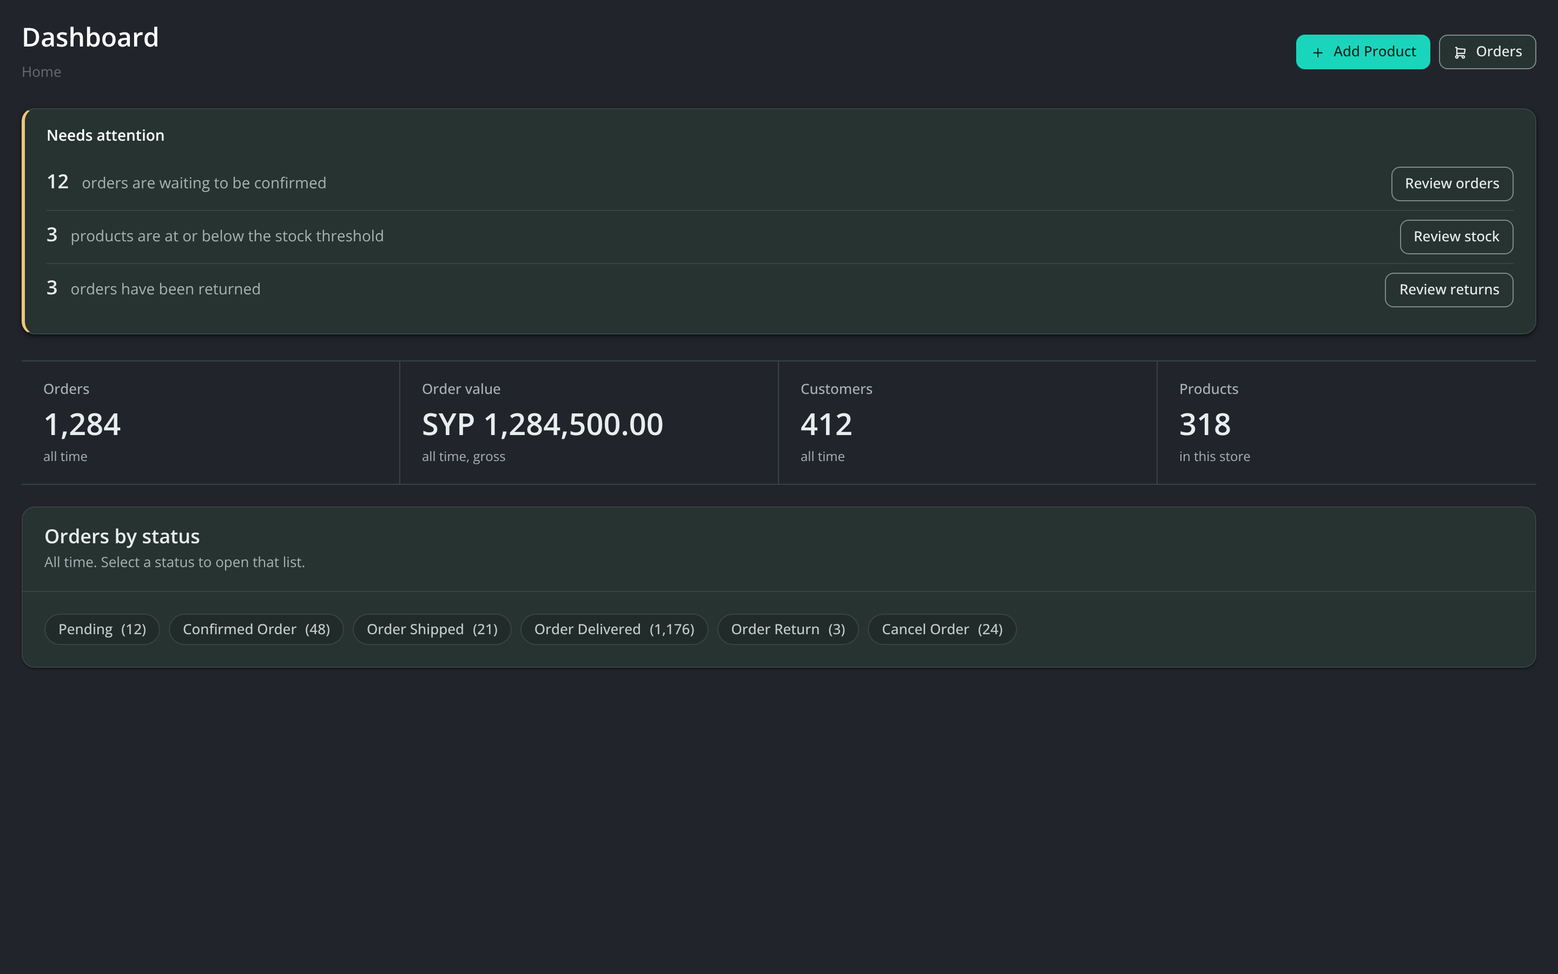
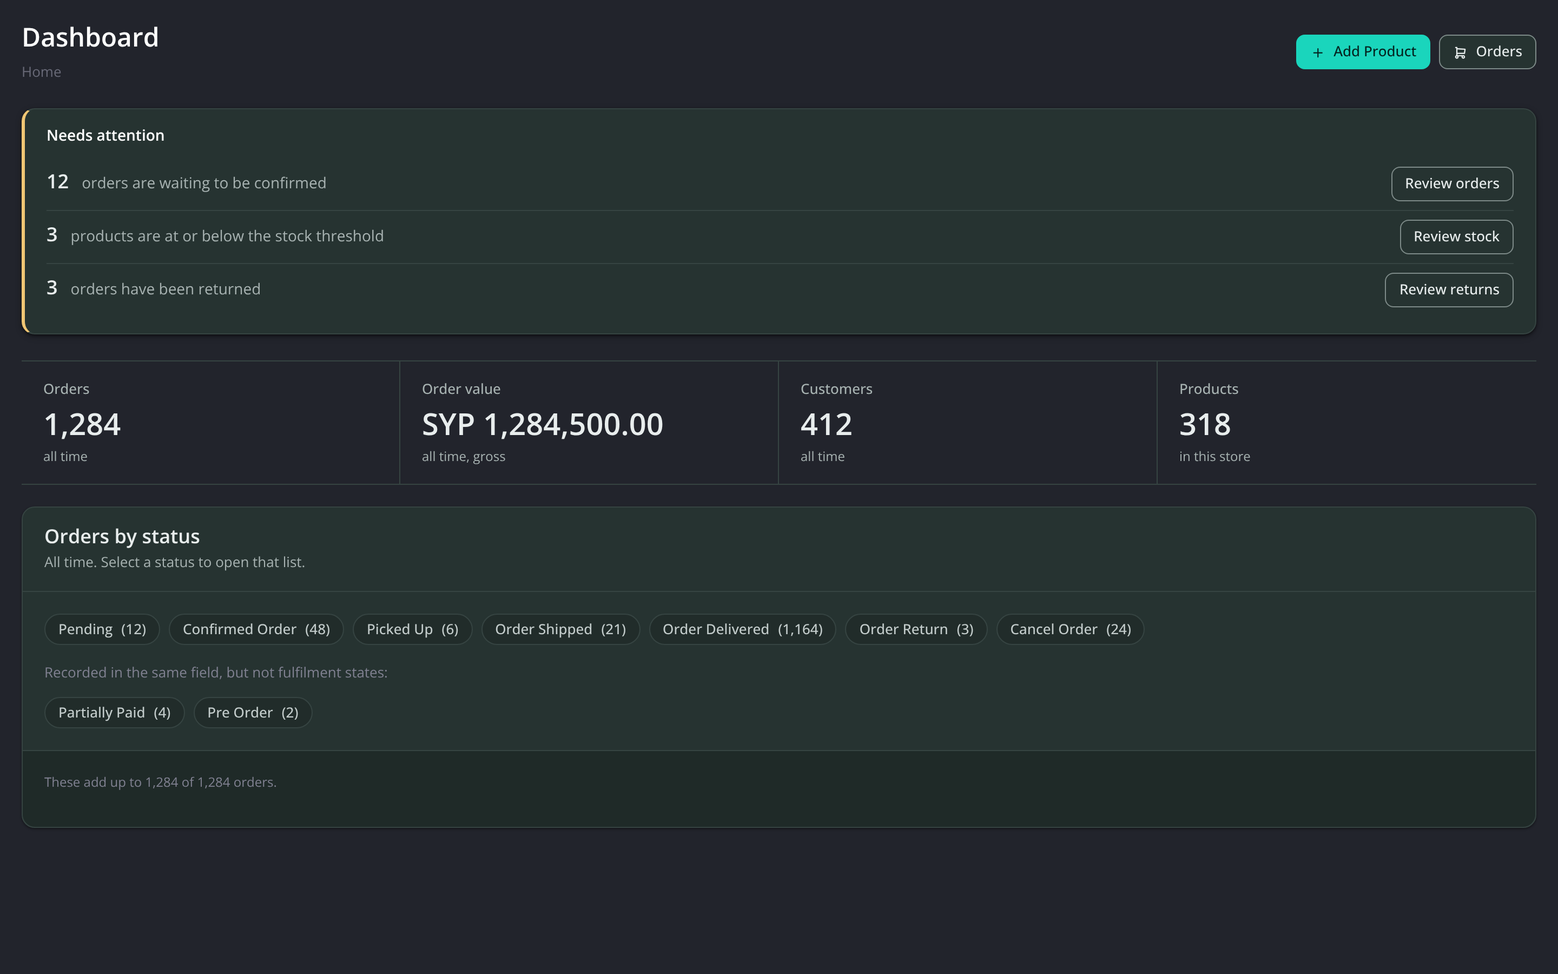
fix(P2-04): the order-status breakdown now partitions the total, and names what is not a fulfilment state
`orders.delivered_status` is ONE integer column carrying NINE values, and two
of them are not fulfilment states at all:

  0 Pending   1 Delivered   2 Cancel   3 Return   4 Confirmed
  5 Picked Up                6 Shipped
  7 PARTIALLY PAID  -- a payment state
  8 PRE ORDER       -- an order type

The column's own migration comment still reads
`0=>pending/1=>diliver/2=>cancel/3=>return` and has been stale for a long time;
all nine are live in app/ and resources/.

`HomeController::getOrderCounts()` counted SIX of them -- 0, 1, 2, 3, 4 and 6
-- leaving picked-up, partially-paid and pre-order in no bucket at all. So the
dashboard showed six counts beside a total they could not add up to, with
nothing on screen to say anything was missing. That was true of the breakdown
P2-02 shipped two commits ago, so this fixes my own work as much as the
original.

Measured, by reverting to that behaviour against a fixture that uses all nine:

  breakdown=1272  total=1284     -- twelve orders invisible

WHAT THE SCREEN DOES NOW

All nine statuses are shown, plus an `other` catch-all for any value outside
0-8, and the card footer states the sum in words so a merchant can watch it
reconcile: "These add up to 1,284 of 1,284 orders."

The two that are not fulfilment states are listed under their own heading --
"Recorded in the same field, but not fulfilment states" -- rather than sitting
silently among the rest. That is the honest presentation available without a
[…]

diff --git a/app/Http/Controllers/HomeController.php b/app/Http/Controllers/HomeController.php
@@ -289,6 +289,12 @@ class HomeController extends Controller
         $return_order = $orderCounts['return'];
         $confirmed_order = $orderCounts['complete'];
         $shipped_order = $orderCounts['shipped'];
+        // P2-04: the three statuses that were counted by nothing, plus the
+        // catch-all, so the dashboard's breakdown reconciles with its total.
+        $picked_up_order = $orderCounts['picked_up'];
+        $partially_paid_order = $orderCounts['partially_paid'];
+        $pre_order_order = $orderCounts['pre_order'];
+        $other_status_order = $orderCounts['other'];
         $new_orders = $orderQuery->orderBy('id', 'DESC')->limit(4)->get();
         $chartData = $this->getOrderChart(['duration' => 'week']);
 
@@ -340,34 +346,84 @@ class HomeController extends Controller
             'customerPer',
             'productPer',
             'shippedOrderPer',
-            'shipped_order'
+            'shipped_order',
+            'picked_up_order',
+            'partially_paid_order',
+            'pre_order_order',
+            'other_status_order'
         );
         return $data;
     }
 
+    /**
+     * The nine values `orders.delivered_status` really takes, by the name the
+     * order list already shows for each one (OrderDataTable::dataTable()).
+     *
+     * The column's own migration comment says `0=>pending/1=>diliver/2=>cancel
+     * /3=>return` and has been stale for a long time: 4, 5, 6, 7 and 8 are all
+     * live in app/ and resources/.
+     *
+     * Two of these are NOT fulfilment states and are worth naming as such,
+     * because they are the reason a "status" column cannot be read as one
+     * thing: 7 is PARTIALLY PAID, which is a payment state, and 8 is PRE
+     * ORDER, which is an order type. They sit in the same integer column as
+     * "shipped", so an order can be exactly one of the nine and the set does
+     * partition -- but what it partitions by is not a single concept.
+     */
+    public const ORDER_STATUS_PENDING        = 0;
+    public const ORDER_STATUS_DELIVERED      = 1;
+    public const ORDER_STATUS_CANCEL         = 2;
+    public const ORDER_STATUS_RETURN         = 3;
+    public const ORDER_STATUS_CONFIRMED      = 4;
+    public const ORDER_STATUS_PICKED_UP      = 5;
+    public const ORDER_STATUS_SHIPPED        = 6;
+    public const ORDER_STATUS_PARTIALLY_PAID = 7;   // a PAYMENT state
+    public const ORDER_STATUS_PRE_ORDER      = 8;   // an ORDER TYPE
+
+    /**
+     * Counts per status, plus an `other` bucket so the parts ALWAYS sum to the
+     * total.
+     *
+     * This used to count six of the nine values -- 0, 1, 2, 3, 4 and 6 --
+     * leaving picked-up (5), partially-paid (7) and pre-order (8) in no bucket
+     * at all. A screen that shows those six beside a total is then quietly
+     * wrong for any store that uses the other three, and a merchant has no way
+     * to tell from the screen that anything is missing.
+     *
+     * `other` is a deliberate catch-all rather than a tenth count: if a value
+     * outside 0-8 is ever written, it lands here and stays visible instead of
+     * disappearing. P2-04 asserts total == sum(parts).
+     */
     private function getOrderCounts($orderQuery, $start = null, $end = null)
     {
-        if (!empty($start) && !empty($end)) {
-            return [
-                'total' => (clone $orderQuery)->whereBetween('created_at', [$start, $end])->count(),
-                'pending' => (clone $orderQuery)->where('delivered_status', 0)->whereBetween('created_at', [$start, $end])->count(),
-                'delivered' => (clone $orderQuery)->where('delivered_status', 1)->whereBetween('created_at', [$start, $end])->count(),
-                'complete' => (clone $orderQuery)->where('delivered_status', 4)->whereBetween('created_at', [$start, $end])->count(),
-                'cancel' => (clone $orderQuery)->where('delivered_status', 2)->whereBetween('created_at', [$start, $end])->count(),
-                'return' => (clone $orderQuery)->where('delivered_status', 3)->whereBetween('created_at', [$start, $end])->count(),
-                'shipped' => (clone $orderQuery)->where('delivered_status', 6)->whereBetween('created_at', [$start, $end])->count(),
-            ];
-        } else {
-            return [
-                'total' => (clone $orderQuery)->count(),
-                'pending' => (clone $orderQuery)->where('delivered_status', 0)->count(),
-                'delivered' => (clone $orderQuery)->where('delivered_status', 1)->count(),
-                'complete' => (clone $orderQuery)->where('delivered_status', 4)->count(),
-                'cancel' => (clone $orderQuery)->where('delivered_status', 2)->count(),
-                'return' => (clone $orderQuery)->where('delivered_status', 3)->count(),
-                'shipped' => (clone $orderQuery)->where('delivered_status', 6)->count(),
-            ];
-        }
+        $scoped = function () use ($orderQuery, $start, $end) {
+            $q = clone $orderQuery;
+            if (!empty($start) && !empty($end)) {
+                $q->whereBetween('created_at', [$start, $end]);
+            }
+            return $q;
+        };
+
+        $counts = [
+            'total'          => $scoped()->count(),
+            'pending'        => $scoped()->where('delivered_status', self::ORDER_STATUS_PENDING)->count(),
+            'delivered'      => $scoped()->where('delivered_status', self::ORDER_STATUS_DELIVERED)->count(),
+            'cancel'         => $scoped()->where('delivered_status', self::ORDER_STATUS_CANCEL)->count(),
+            'return'         => $scoped()->where('delivered_status', self::ORDER_STATUS_RETURN)->count(),
+            'complete'       => $scoped()->where('delivered_status', self::ORDER_STATUS_CONFIRMED)->count(),
+            'picked_up'      => $scoped()->where('delivered_status', self::ORDER_STATUS_PICKED_UP)->count(),
+            'shipped'        => $scoped()->where('delivered_status', self::ORDER_STATUS_SHIPPED)->count(),
+            'partially_paid' => $scoped()->where('delivered_status', self::ORDER_STATUS_PARTIALLY_PAID)->count(),
+            'pre_order'      => $scoped()->where('delivered_status', self::ORDER_STATUS_PRE_ORDER)->count(),
+        ];
+
+        $accounted = $counts['pending'] + $counts['delivered'] + $counts['cancel']
+            + $counts['return'] + $counts['complete'] + $counts['picked_up']
+            + $counts['shipped'] + $counts['partially_paid'] + $counts['pre_order'];
+
+        $counts['other'] = max(0, $counts['total'] - $accounted);
+
+        return $counts;
     }
 
     private function calculatePercentageToday($todayCount, $allCount)

diff --git a/resources/views/dashboard/overview.blade.php b/resources/views/dashboard/overview.blade.php
@@ -136,18 +136,79 @@
     {{-- Order status, as a status breakdown rather than six more tiles. Each
          one is a link into the filtered list, because a count the merchant
          cannot open is a count they cannot act on. --}}
-    @php $ssStatusHref = $ssMayOrders ? route('order.index') : null; @endphp
+    {{-- P2-04: the breakdown PARTITIONS the total, and says so.
+
+         `orders.delivered_status` is one integer column carrying nine values,
+         and two of them are not fulfilment states at all: 7 is Partially Paid
+         (a payment state) and 8 is Pre Order (an order type). The dashboard
+         used to show six of the nine, leaving picked-up, partially-paid and
+         pre-order in no bucket -- six counts beside a total they could not add
+         up to, with nothing on screen to say so.
+
+         All nine are shown now, plus `other` for any value outside 0-8, and
+         the footer states the sum so a merchant can see it reconcile. The two
+         that are not fulfilment states are labelled as what they are rather
+         than quietly listed among the rest. --}}
+    @php
+        $ssStatusHref = $ssMayOrders ? route('order.index') : null;
+
+        $ssFulfilment = [
+            ['label' => __('Pending'),         'count' => $ssPendingOrders],
+            ['label' => __('Confirmed Order'), 'count' => (int) ($confirmed_order ?? 0)],
+            ['label' => __('Picked Up'),       'count' => (int) ($picked_up_order ?? 0)],
+            ['label' => __('Order Shipped'),   'count' => (int) ($shipped_order ?? 0)],
+            ['label' => __('Order Delivered'), 'count' => (int) ($delivered_order ?? 0)],
+            ['label' => __('Order Return'),    'count' => $ssReturnOrders],
+            ['label' => __('Cancel Order'),    'count' => (int) ($cancel_order ?? 0)],
+        ];
+
+        $ssNotFulfilment = [
+            ['label' => __('Partially Paid'), 'count' => (int) ($partially_paid_order ?? 0)],
+            ['label' => __('Pre Order'),      'count' => (int) ($pre_order_order ?? 0)],
+        ];
+
+        $ssOther = (int) ($other_status_order ?? 0);
+        $ssStatusSum = array_sum(array_column($ssFulfilment, 'count'))
+            + array_sum(array_column($ssNotFulfilment, 'count'))
+            + $ssOther;
+    @endphp
+
     <x-ss.card :title="__('Orders by status')"
                :note="$ssMayOrders ? __('All time. Select a status to open that list.') : __('All time.')"
                class="mb-4">
         <div class="ss-chips">
-            <x-ss.chip :label="__('Pending')"          :count="number_format($ssPendingOrders)"                        :href="$ssStatusHref" :interactive="false" />
-            <x-ss.chip :label="__('Confirmed Order')"  :count="number_format((int) ($confirmed_order ?? 0))"           :href="$ssStatusHref" :interactive="false" />
-            <x-ss.chip :label="__('Order Shipped')"    :count="number_format((int) ($shipped_order ?? 0))"             :href="$ssStatusHref" :interactive="false" />
-            <x-ss.chip :label="__('Order Delivered')"  :count="number_format((int) ($delivered_order ?? 0))"           :href="$ssStatusHref" :interactive="false" />
-            <x-ss.chip :label="__('Order Return')"     :count="number_format($ssReturnOrders)"                         :href="$ssStatusHref" :interactive="false" />
-            <x-ss.chip :label="__('Cancel Order')"     :count="number_format((int) ($cancel_order ?? 0))"              :href="$ssStatusHref" :interactive="false" />
+            @foreach ($ssFulfilment as $ssRow)
+                <x-ss.chip :label="$ssRow['label']"
+                           :count="number_format($ssRow['count'])"
+                           :href="$ssStatusHref"
+                           :interactive="false" />
+            @endforeach
         </div>
+
+        @if ($ssNotFulfilment[0]['count'] > 0 || $ssNotFulfilment[1]['count'] > 0 || $ssOther > 0)
+            <p class="ss-section__note" style="margin-block-start: var(--ss-space-4);">
+                {{ __('Recorded in the same field, but not fulfilment states:') }}
+            </p>
+            <div class="ss-chips">
+                @foreach ($ssNotFulfilment as $ssRow)
+                    @if ($ssRow['count'] > 0)
+                        <x-ss.chip :label="$ssRow['label']"
+                                   :count="number_format($ssRow['count'])"
+                                   :href="$ssStatusHref"
+                                   :interactive="false" />
+                    @endif
+                @endforeach
+                @if ($ssOther > 0)
+                    <x-ss.chip :label="__('Other')" :count="number_format($ssOther)" :interactive="false" />
+                @endif
+            </div>
+        @endif
+
+        <x-slot:footer>
+            <p class="ss-stat__period" data-ss-status-sum="{{ $ssStatusSum }}">
+                {{ __('These add up to :sum of :total orders.', ['sum' => number_format($ssStatusSum), 'total' => number_format((int) ($totle_order ?? 0))]) }}
+            </p>
+        </x-slot:footer>
     </x-ss.card>
 
 </div>

diff --git a/docs/design-system/tools/render-preview.php b/docs/design-system/tools/render-preview.php
@@ -48,12 +48,20 @@ if (!$viewPath || !$locale || !$state || !$out) {
 $langFile = "$repo/resources/lang/$locale.json";
 $T = is_file($langFile) ? json_decode(file_get_contents($langFile), true) : [];
 $missing = [];
-function __t($key)
+function __t($key, array $replace = [])
 {
     global $T, $missing;
-    if (isset($T[$key]) && $T[$key] !== '') return $T[$key];
-    $missing[$key] = true;
-    return $key;
+    $line = (isset($T[$key]) && $T[$key] !== '') ? $T[$key] : null;
+    if ($line === null) {
+        $missing[$key] = true;
+        $line = $key;
+    }
+    // Laravel's __() substitutes :placeholders; a harness that ignored them
+    // would render ":sum of :total" and look like a translation bug.
+    foreach ($replace as $k => $v) {
+        $line = str_replace([':' . $k, ':' . ucfirst($k)], (string) $v, $line);
+    }
+    return $line;
 }
 
 /**
@@ -408,7 +416,9 @@ function ss_parse_attrs($raw)
             // value="literal {{ $x }}" -- a plain string, but it may itself
             // contain echoes, so run it back through the compiler.
             $lit = $m[3];
-            if (strpos($lit, '{{') !== false) {
+            // Either raw Blade ({{ }}) or, now that expansion runs last,
+            // already-compiled PHP. Both need executing rather than quoting.
+            if (strpos($lit, '{{') !== false || strpos($lit, '<?php') !== false) {
                 $parts[] = "$key => ss_inline(" . var_export($lit, true) . ", get_defined_vars())";
             } else {
                 $parts[] = "$key => " . var_export($lit, true);
@@ -486,10 +496,17 @@ function ss_expand_components($s)
             $end = $found[1];
         }
 
-        // Named slots: <x-slot:actions> ... </x-slot>
+        /* Named slots.
+         *
+         * Blade closes these BOTH ways -- `</x-slot>` and `</x-slot:footer>`
+         * -- and accepting only the short form left the whole block sitting
+         * un-extracted inside the slot text, where the later directive passes
+         * then rewrote its @if/@foreach *inside* the generated string literal
+         * and corrupted it. The failure surfaced as a PHP parse error pointing
+         * at a line of perfectly good Blade, so: accept both. */
         $named = [];
         $inner = preg_replace_callback(
-            '/<x-slot:([A-Za-z0-9_\-]+)\s*>(.*?)<\/x-slot>/s',
+            '/<x-slot:([A-Za-z0-9_\-]+)\s*>(.*?)<\/x-slot(?::\1)?>/s',
             function ($sm) use (&$named) { $named[$sm[1]] = $sm[2]; return ''; },
             $inner
         );
@@ -606,11 +623,6 @@ function compile_blade($src)
     $s = preg_replace('/@(?:permission|can)\s*\(\s*([\'"])(.+?)\1\s*\)/', "<?php if (permission_check('$2')): ?>", $s);
     $s = preg_replace('/@(endpermission|endcan)\b/', '<?php endif; ?>', $s);
 
-    // Components, before control flow: the expansion var_export()s each slot
-    // body and hands it back to compile_blade, so directives inside a slot are
-    // compiled by that recursive call rather than by this pass.
-    $s = ss_expand_components($s);
-
     // control flow -- paren-counted, see ss_directive().
     $s = ss_directive($s, 'if',      fn($e) => '<?php if (' . $e . '): ?>');
     $s = ss_directive($s, 'elseif',  fn($e) => '<?php elseif (' . $e . '): ?>');
@@ -654,6 +666,22 @@ function compile_blade($src)
     $s = str_replace('Form::', 'FormStub::', $s);
     $s = preg_replace('/\btrans_choice\(/', '__tc(', $s);
     $s = preg_replace('/\b__\(/', '__t(', $s);
+
+    /* Components LAST, and the order is the whole point.
+     *
+     * The expansion var_export()s each slot body into a PHP string literal. If
+     * any pass runs AFTER that, it rewrites the Blade inside that literal --
+     * and a half-rewritten @if whose paren scan then runs off the end of the
+     * literal corrupts the generated file, surfacing as a parse error pointing
+     * at a line of perfectly good Blade. (It did. Twice: once via a
+     * re-scanning loop, once via pass ordering.)
+     *
+     * Running last means a slot body is already-compiled PHP by the time it is
+     * quoted, and nothing touches it again. The recursive compile_blade() call
+     * that ss_inline() makes on it is then a no-op for directives and still
+     * expands any nested <x-...> the slot contains.
+     */
+    $s = ss_expand_components($s);
 
     return $s;
 }

diff --git a/docs/design-system/tools/fixtures/dashboard-shared.php b/docs/design-system/tools/fixtures/dashboard-shared.php
@@ -21,13 +21,23 @@ $busy = $state === 'full' || $state === 'noperm';
 // ---- order status counts ----------------------------------------------------
 // delivered_status: 0 pending, 1 delivered, 2 cancel, 3 return, 4 complete,
 // 6 shipped -- the values HomeController::getOrderCounts() reads.
-$pending_order   = $busy ? 12 : 0;
-$confirmed_order = $busy ? 48 : 0;
-$shipped_order   = $busy ? 21 : 0;
-$delivered_order = $busy ? 1176 : 0;
-$return_order    = $busy ? 3 : 0;
-$cancel_order    = $busy ? 24 : 0;
+$pending_order        = $busy ? 12 : 0;
+$confirmed_order      = $busy ? 48 : 0;
+$picked_up_order      = $busy ? 6 : 0;
+$shipped_order        = $busy ? 21 : 0;
+$delivered_order      = $busy ? 1164 : 0;
+$return_order         = $busy ? 3 : 0;
+$cancel_order         = $busy ? 24 : 0;
 
+// The two that are NOT fulfilment states, and the catch-all. A store that
+// uses them is the case the old six-count breakdown got wrong, so the busy
+// fixture uses them deliberately.
+$partially_paid_order = $busy ? 4 : 0;
+$pre_order_order      = $busy ? 2 : 0;
+$other_status_order   = 0;
+
+// 12 + 48 + 6 + 21 + 1164 + 3 + 24 + 4 + 2 = 1284. The breakdown must
+// reconcile with this, and a browser check asserts it does.
 $totle_order     = $busy ? 1284 : 0;
 $totle_customers = $busy ? 412 : 0;
 $totalproduct    = $busy ? 318 : 0;

diff --git a/docs/development/phase-2/PHASE-02-TASK-LEDGER.md b/docs/development/phase-2/PHASE-02-TASK-LEDGER.md
@@ -66,12 +66,24 @@ document is cited instead — inventing a register ID would be worse than citing
 | P2-07-6 | Dashboard honesty pass in the app (periods, money gate) | PRD-001 | **TODO** | — | — | partly an API change → escalation |
 | P2-07-7 | Accessibility: `Semantics` on icon-only controls (0 today, 198 files) | — | **TODO** | — | — | — |
 
-## Slices P2-03 … P2-06 — not started
+## Slice P2-04 — orders (Workstream E)
+
+| ID | Task | Decisions | Status | Files | Verified by | Blocker |
+|---|---|---|---|---|---|---|
+| P2-04-1 | Make the order-status breakdown **partition** the total | ORD | **DONE** | `HomeController.php`, `dashboard/overview.blade.php` | browser checks read the rendered chips and the total off the page and compare; **bites** (old behaviour shows 1,272 against a total of 1,284) | — |
+| P2-04-2 | Name the two values that are not fulfilment states | ORD | **DONE** | `overview.blade.php` | browser check asserts the wording and both labels | — |
+| P2-04-3 | Status constants on `HomeController`, with the stale migration comment recorded | — | **DONE** | `HomeController.php` | 9 values confirmed live by grep across `app/` and `resources/` | — |
+| P2-04-4 | Order list: design-system adoption | UX-001 | **TODO** | — | — | — |
+| P2-04-5 | Quick order preview in a side panel | UX | **TODO** | — | — | needs a read-only preview route → authz review |
+| P2-04-6 | Order detail page | UX | **TODO** | — | — | — |
+| P2-04-7 | Kanban presentation | UX | **TODO** | — | — | — |
+| P2-04-8 | Saved views and filters | UX, G | **TODO** | — | — | — |
+
+## Slices P2-03, P2-05, P2-06 — not started
 
 | ID | Slice | Workstream | Status |
 |---|---|---|---|
 | P2-03 | Products experience | D | **NOT STARTED** |
-| P2-04 | Orders experience | E | **NOT STARTED** |
 | P2-05 | Common merchant screens | J | **NOT STARTED** |
 | P2-06 | Search, notifications, preferences, onboarding | G, H, I | **NOT STARTED** |
 
@@ -92,6 +104,7 @@ have not run here at all.
 
 | # | Finding | Why it is only recorded |
 |---|---|---|
+| F0 | **`orders.delivered_status` is one integer column carrying four different concepts.** 0–6 are fulfilment states, **7 is Partially Paid (a payment state)** and **8 is Pre Order (an order type)**. The column's own migration comment still reads `0=>pending/1=>diliver/2=>cancel/3=>return` and has been stale for a long time. | Phase 02 surfaces this honestly rather than hiding it — the dashboard now labels 7 and 8 as "recorded in the same field, but not fulfilment states" — but **splitting the column is a schema and commerce change, which is Phase 04 and an owner decision**. Recorded here so the next phase inherits the fact rather than rediscovering it. |
 | F1 | `HomeController::calculatePercentageToday()` computes today against the **all-time total**, not a day-over-day change, and all nine `*Per` variables it feeds are **unused by every view in the repository**. | The dashboard never displayed them, so this is dead computation rather than a visible defect. Removing it also removes 7 `COUNT` queries per dashboard load — worth doing, but it is a controller change with no user-visible effect and belongs in its own commit. |
 | F2 | `resources/lang/ar.json` contains **17 duplicated keys** (2,874 entries, 2,857 distinct); `en.json` has none. | PHP's `json_decode` keeps the last occurrence, so behaviour is well-defined today. De-duplicating rewrites 155 lines of a translation file and risks changing a string nobody asked to change. Reported for an owner decision. |
 | F3 | Host-chrome controls outside `.ss-scope` (e.g. the layout's breadcrumb links) have **no focus ring**. | The design system never styles a bare element selector, so an opt-in stylesheet cannot fix it. It is a host-chrome change, not a Phase 02 one. |

diff --git a/docs/development/phase-2/PHASE-02-TEST-EVIDENCE.md b/docs/development/phase-2/PHASE-02-TEST-EVIDENCE.md
@@ -90,7 +90,7 @@ Whitespace-normalised, ignoring the two asset lines: **IDENTICAL**, in English a
 $ node docs/development/phase-2/tools/browser-checks-p02.cjs
 Chromium 153.0.8010.12
 ...
-75 PASSED, 0 FAILED
+79 PASSED, 0 FAILED
 ```
 
 What they actually drive:
@@ -132,6 +132,20 @@ remove the @if ($ssMayOrders) around the order-value stat  -> 73 PASSED, 2 FAILE
 The failure output is the disclosure itself, which is the useful property: the
 check does not merely notice a missing element, it prints the number that
 leaked.
+
+### 4a-ter. The reconciliation check bites, and its failure output IS the defect
+
+```
+revert the breakdown to the six statuses it used to show  -> 76 PASSED, 3 FAILED
+  FAIL  the status breakdown sums to the order total
+        -- breakdown=1272 total=1284
+  FAIL  the rendered chips themselves sum to the total
+        -- chips=[12,48,21,1164,3,24] sum=1272 total=1284
+```
+
+**Twelve orders invisible**, on a screen that shows a total of 1,284 beside six counts a merchant
+would reasonably read as a partition of it. The check reads the chips and the total **off the
+rendered page**, not from the fixture, so it measures what a merchant would see.
 
 ### 4b. One check was corrected rather than left green
 
